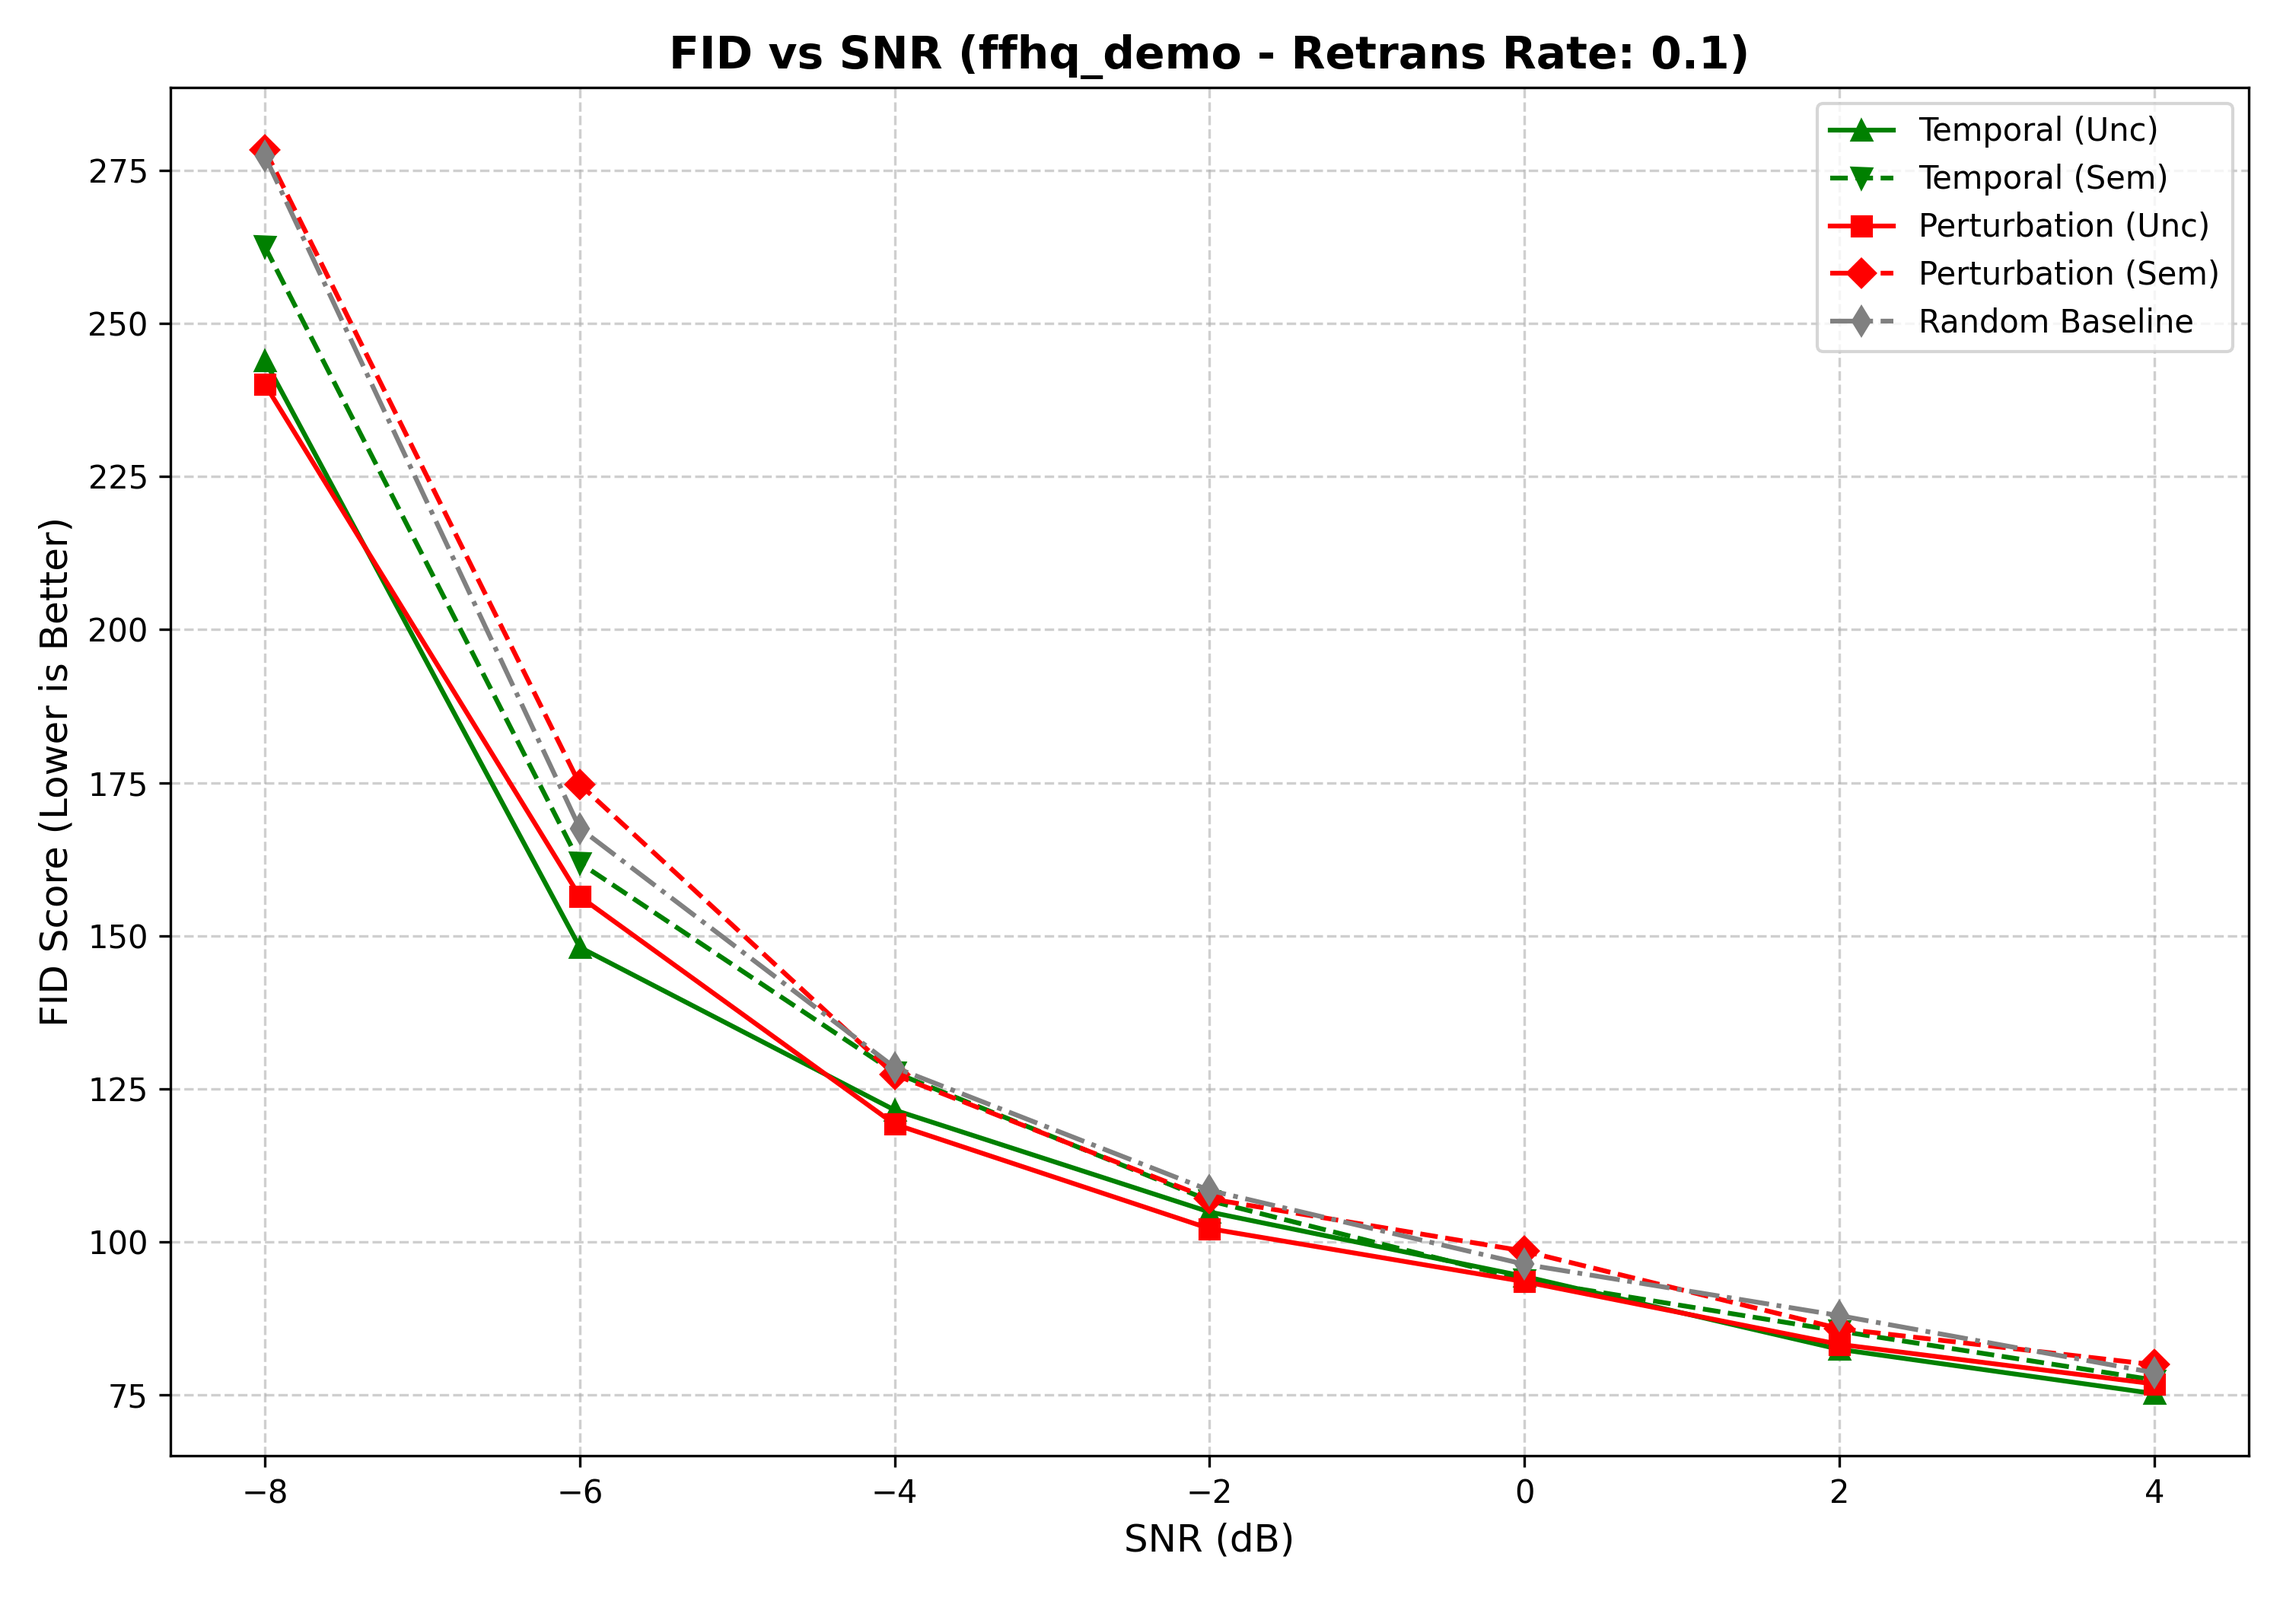
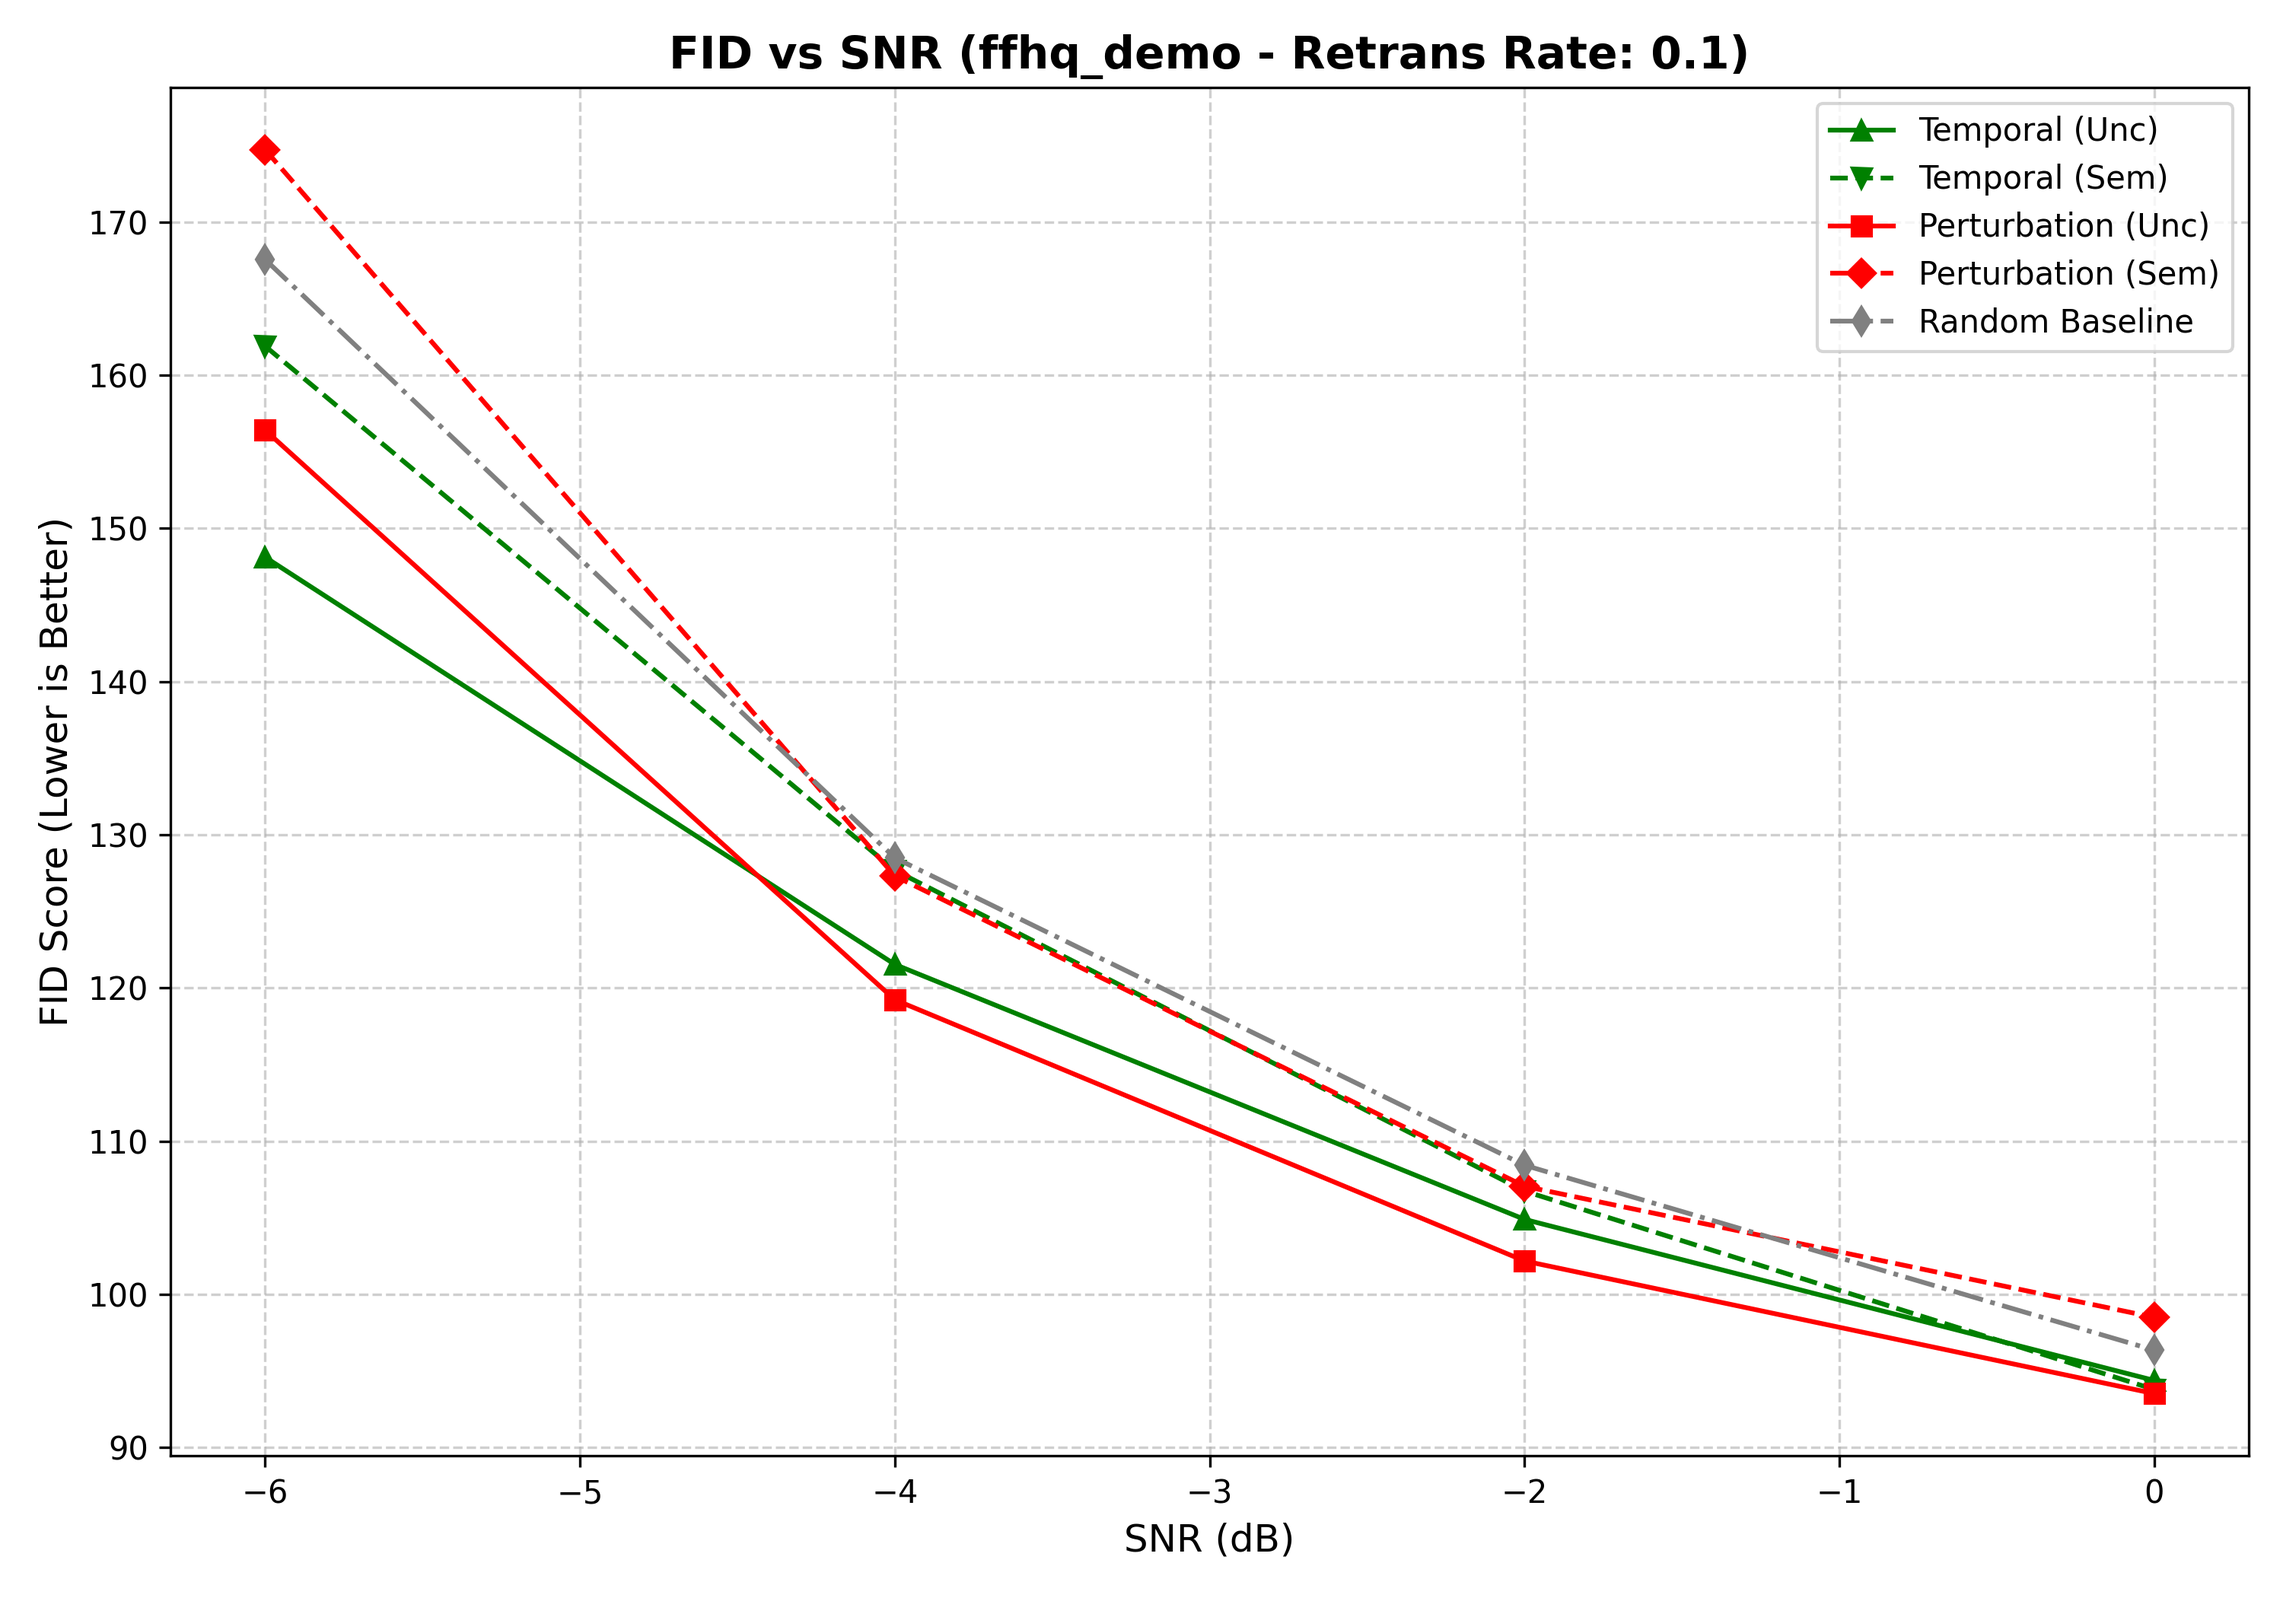
ffhq -6

diff --git a/plot_fid.py b/plot_fid.py
@@ -11,7 +11,7 @@ import matplotlib.pyplot as plt
 # 【追加】 データセットの指定
 # ここを "imagenet" や "ffhq_demo" に書き換えてください
 DATASET = "ffhq_demo"
-DATASET = "imagenet"
+#DATASET = "imagenet"
 
 # 1. 探索を開始するルートディレクトリ
 BASE_DIR = "results_retrans_comparison"
@@ -24,7 +24,7 @@ TARGET_RETRANS_RATE = 0.1
 # 3. プロットしたいSNRのリスト (None または [] なら見つかったもの全て表示)
 #    例: [-4, -2, 0, 2, 4, 10]
 TARGET_SNRS = [-6, -4, -2, 0]
-TARGET_SNRS = None 
+#TARGET_SNRS = None 
 
 # 4. プロットしたい手法のリスト (JSONのキーに完全一致させる)
 #    前回のコードで生成されるJSONキーに合わせています
